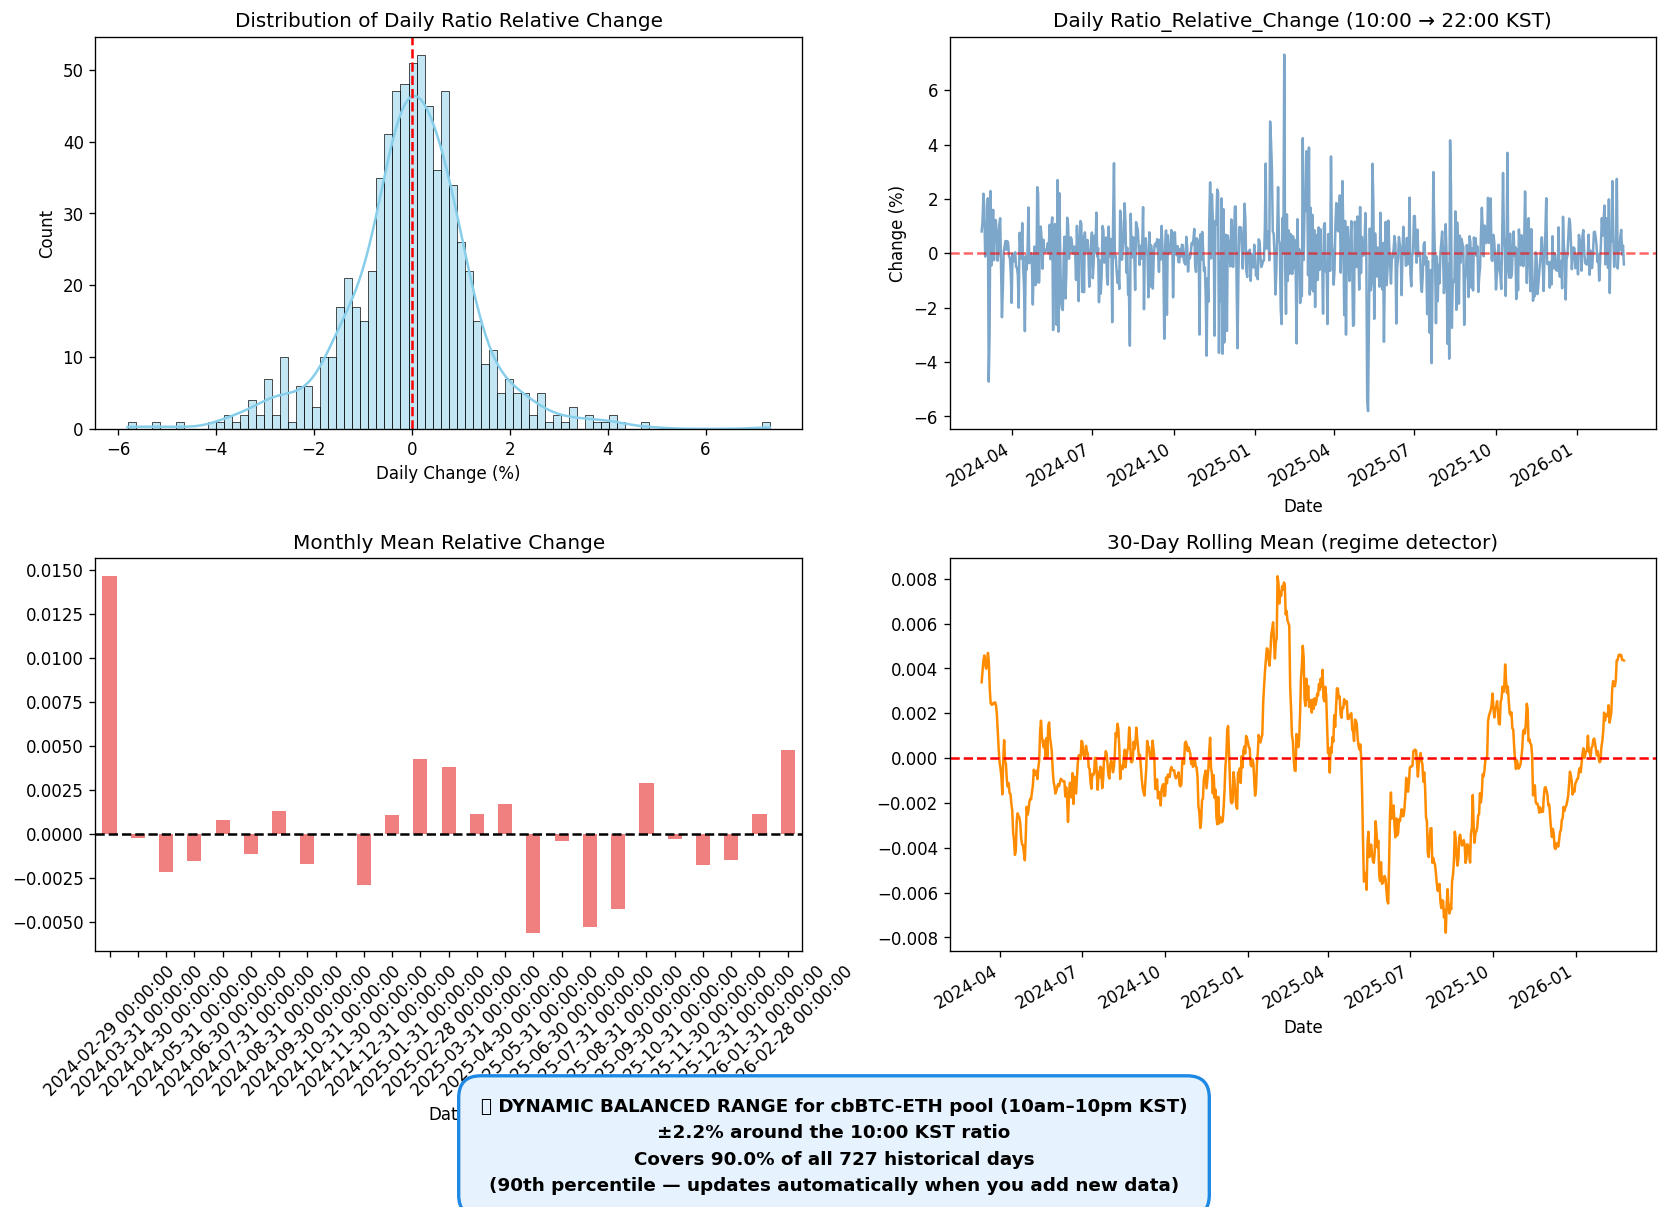
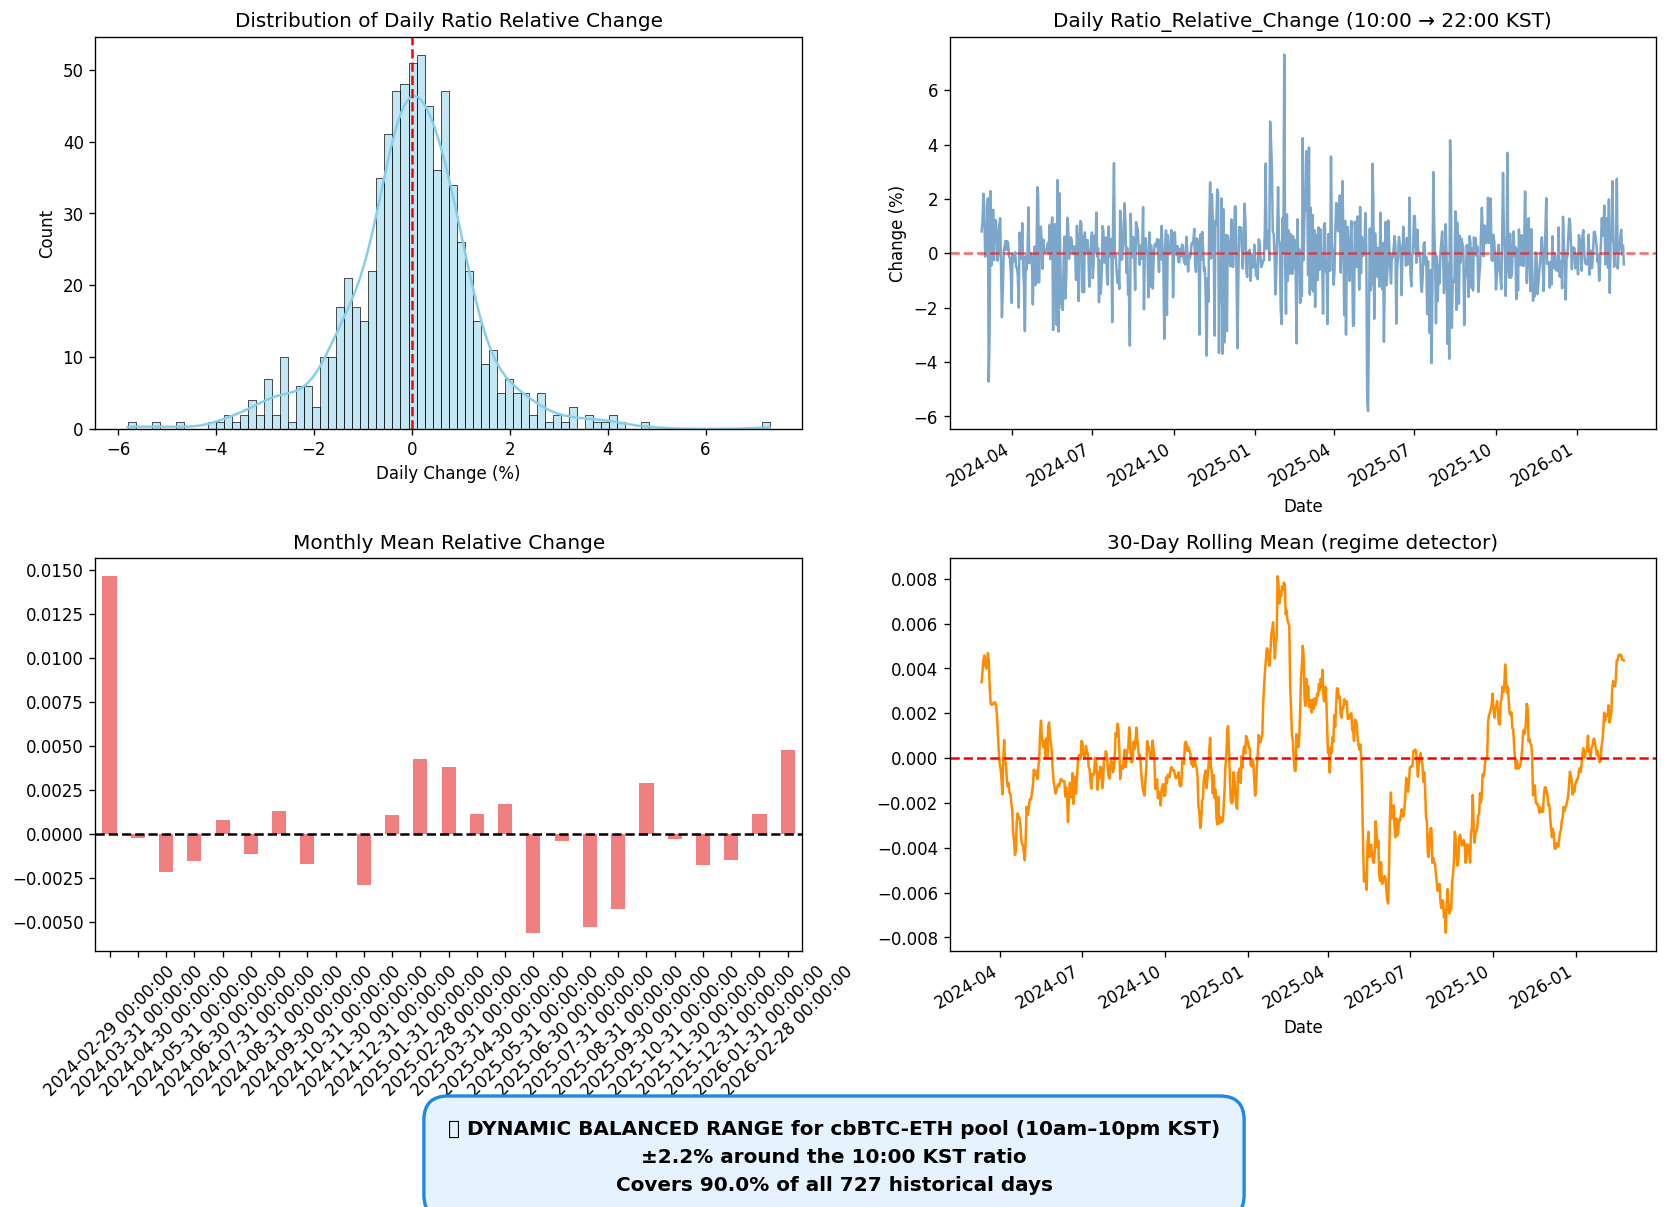
cleanup

Changed region(s): [[0.2496, 0.889, 0.7487, 1.0]]

diff --git a/src/v2/statsLook_day.py b/src/v2/statsLook_day.py
@@ -112,7 +112,6 @@ coverage_pct = (abs_changes <= p).mean() * 100
 print(f"\n💡 DYNAMIC BALANCED RANGE RECOMMENDATION ({PERCENTILE}th percentile)")
 print(f"   ±{balanced_range_pct}% around the 10:00 KST ratio")
 print(f"   Covers {coverage_pct:.1f}% of all {len(changes)} historical days")
-print(f"   ({PERCENTILE}th percentile of |daily moves| — updates automatically)")
 
 # ====================== 6. VISUALS + SAVE AS PNG (COMPACT) ======================
 print("\n🎨 Saving in Compact resolution (super small file size)...")
@@ -145,17 +144,16 @@ plt.title('30-Day Rolling Mean (regime detector)')
 
 plt.tight_layout(rect=[0, 0.08, 1, 0.95])
 
-# Dynamic box
+# Clean box text (removed the percentile update line)
 plt.figtext(0.5, 0.04,
             f"💡 DYNAMIC BALANCED RANGE for cbBTC-ETH pool (10am–10pm KST)\n"
             f"±{balanced_range_pct}% around the 10:00 KST ratio\n"
-            f"Covers {coverage_pct:.1f}% of all {len(changes)} historical days\n"
-            f"({PERCENTILE}th percentile — updates automatically when you add new data)",
-            ha='center', va='bottom', fontsize=11, fontweight='bold',
+            f"Covers {coverage_pct:.1f}% of all {len(changes)} historical days",
+            ha='center', va='bottom', fontsize=12, fontweight='bold',
             bbox=dict(boxstyle="round,pad=1.2", facecolor="#E6F3FF", edgecolor="#1E88E5", linewidth=2),
             linespacing=1.6)
 
-# Clean filename (no _Light suffix)
+# Clean filename (no suffix)
 png_filename = f"ratio_daily_analysis_{int(PERCENTILE)}.png"
 plt.savefig(png_filename, 
             dpi=120, 
